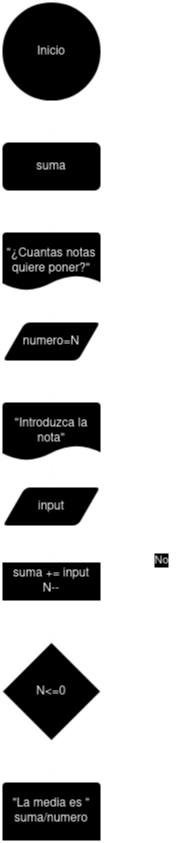
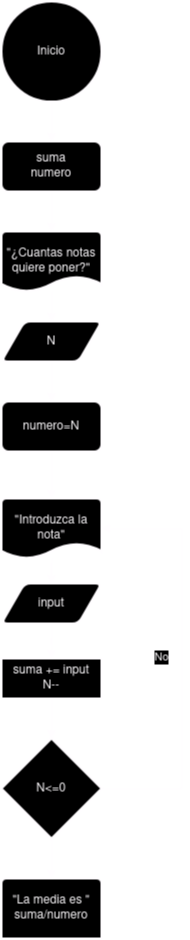
Ejercicio 8 tarea 2

diff --git a/unidad-1/Tareas/tarea1/README.md b/unidad-1/Tareas/tarea1/README.md
@@ -19,7 +19,12 @@ Desarrolle un algoritmo que permita calcular Promedio de Notas; finaliza cuando 
 - Preguntamos cuantas notas quiere poner (N)
 - Declaramos que numero es igual a N
 - Le pedimos que inttroduzca la nota (input)
-- Sumamos a suma su valor mas el de imput
+- Sumamos a suma su valor mas el de input
+- Decrementamos el valor de N
+- Si N<=0 Entonces
+- Imprimimos la media que es suma/numero
+- Sino
+- Volvemos al paso en el que pedimos la nota
 - __Fin__
 
 ### Código en JAVA
